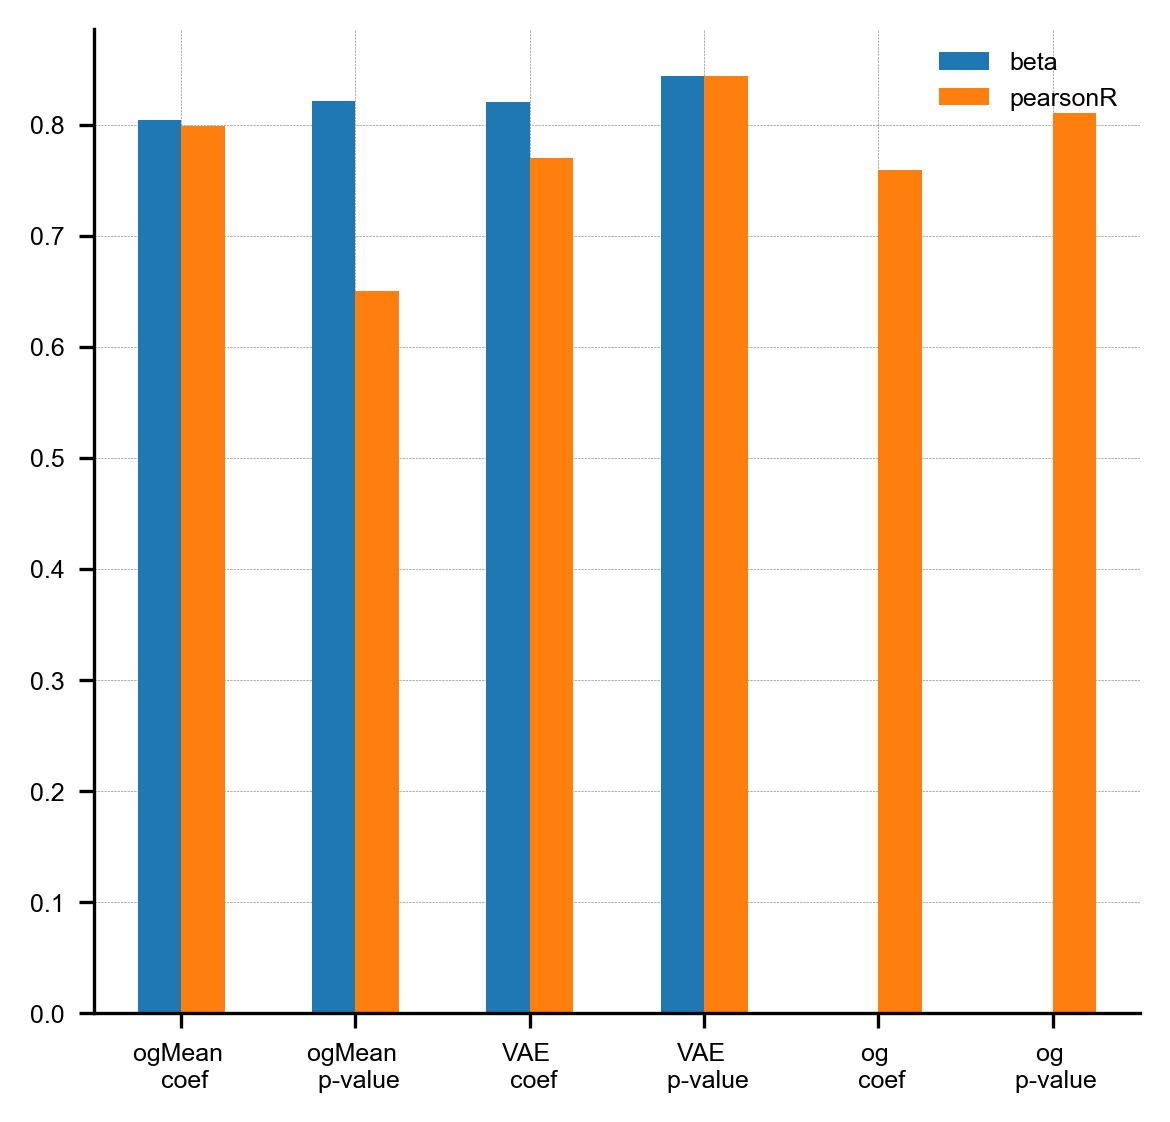
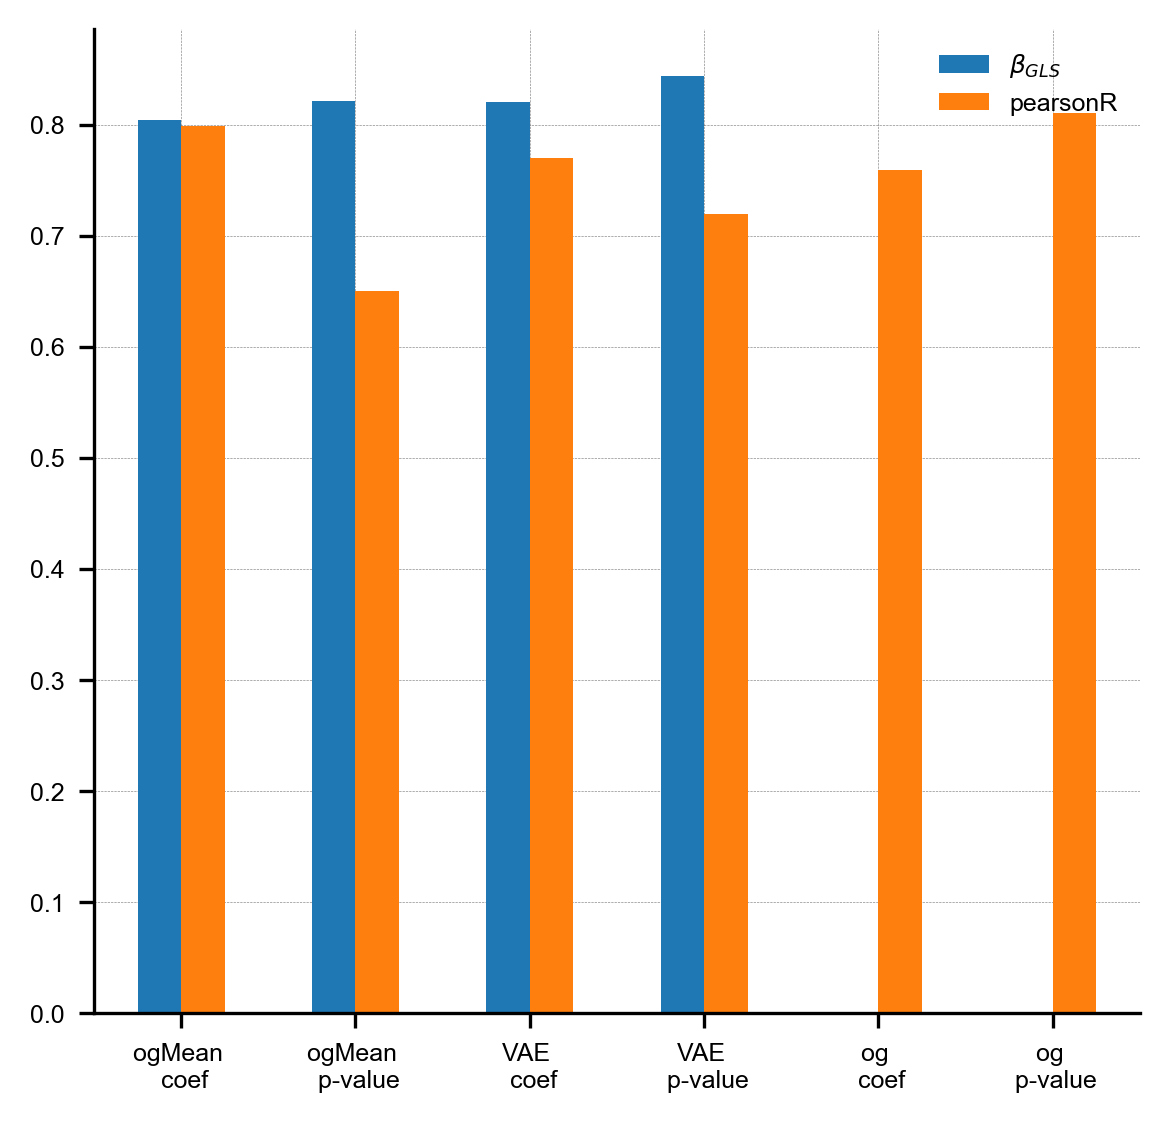
other barcharts

Changed region(s): [[0.8, 0.0312, 0.9538, 0.1248], [0.5846, 0.0624, 0.6462, 0.1872]]

diff --git a/src/main.py b/src/main.py
@@ -19,7 +19,7 @@ if __name__ == '__main__':
     vaeGLS: PairwiseCorrMatrix = read(PATH + '/datasetsTese/VAEGLSPairCorr.pickle.gz')
     
     barPlotCategories1 = {'$β_{GLS}$': {'ogMean \n coef': glsPairwise.aucs['beta'],'ogMean \n p-value': glsPairwise.aucs['pValue'], 'VAE \n coef': vaeGLS.aucs['beta'], 'VAE \n p-value': vaeGLS.aucs['pValue']},
-                        'pearsonR': {'og \n coef': baseModel.aucs['pearsonR'],'og \n p-value': baseModel.aucs['pValue'], 'ogMean \n coef': meanProteinsModel.aucs['pearsonR'],'ogMean \n p-value': meanProteinsModel.aucs['pValue'], 'VAE \n coef': vaePearson.aucs['pearsonR'], 'VAE \n p-value': vaeGLS.aucs['pValue']}
+                        'pearsonR': {'og \n coef': baseModel.aucs['pearsonR'],'og \n p-value': baseModel.aucs['pValue'], 'ogMean \n coef': meanProteinsModel.aucs['pearsonR'],'ogMean \n p-value': meanProteinsModel.aucs['pValue'], 'VAE \n coef': vaePearson.aucs['pearsonR'], 'VAE \n p-value': vaePearson.aucs['pValue']}
     }
 
     barPlotCategories2 = {'og \n pearsonR': {'coef': baseModel.aucs['pearsonR'], 'p-value': baseModel.aucs['pValue']},
@@ -37,14 +37,18 @@ if __name__ == '__main__':
     plt.tight_layout()
     plt.xticks(rotation = 0)
     plt.savefig('barplotAUCbyProxyMetric.png', bbox_inches="tight")
+    pd.DataFrame(barPlotCategories1).plot(kind='bar')
+    plt.tight_layout()
+    plt.xticks(rotation = 0)
+    plt.savefig('barplotAUCbyProteinsMatrix.png', bbox_inches="tight")
 
 
-    proteomics: ProteinsMatrix = read(PATH + '/datasetsTese/ogProteomics.pickle.gz')
-    baseModel.data = baseModel.data.loc[baseModel.data['corum'] == 1]
-    glsPairwise.data = glsPairwise.data.loc[glsPairwise.data['corum'] == 1]
+    # proteomics: ProteinsMatrix = read(PATH + '/datasetsTese/ogProteomics.pickle.gz')
+    # baseModel.data = baseModel.data.loc[baseModel.data['corum'] == 1]
+    # glsPairwise.data = glsPairwise.data.loc[glsPairwise.data['corum'] == 1]
 
 
 
-    PairwiseCorrMatrix.heatmap([baseModel, glsPairwise], ['pearsonR', 'beta'], [(0,1),(0,1)], 5, 'missingness', proteomics, 'heatmapMVperPPI5Bins.png')
-    PairwiseCorrMatrix.heatmap([baseModel, glsPairwise], ['pearsonR', 'beta'], [(0,1),(0,1)], 10, 'missingness', proteomics, 'heatmapMVperPPI10Bins.png')
+    # PairwiseCorrMatrix.heatmap([baseModel, glsPairwise], ['pearsonR', 'beta'], [(0,1),(0,1)], 5, 'missingness', proteomics, 'heatmapMVperPPI5Bins.png')
+    # PairwiseCorrMatrix.heatmap([baseModel, glsPairwise], ['pearsonR', 'beta'], [(0,1),(0,1)], 10, 'missingness', proteomics, 'heatmapMVperPPI10Bins.png')
 2
